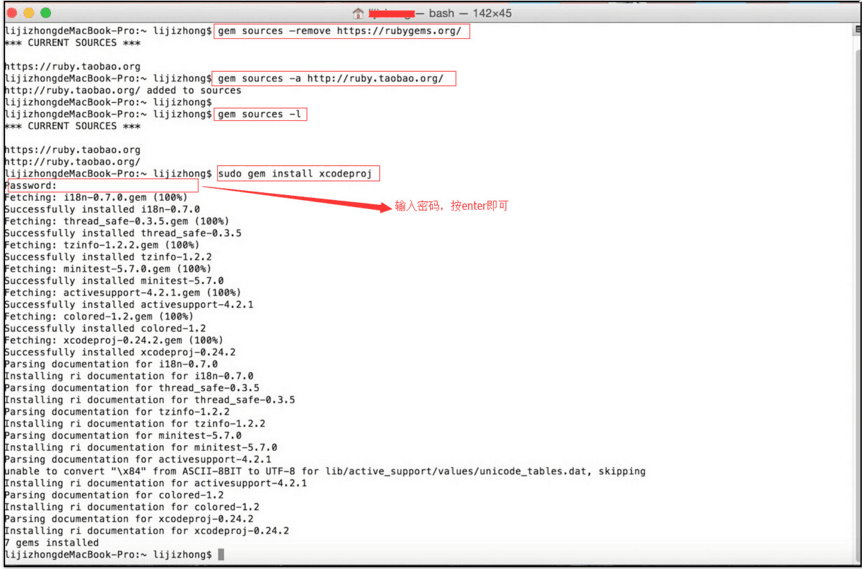
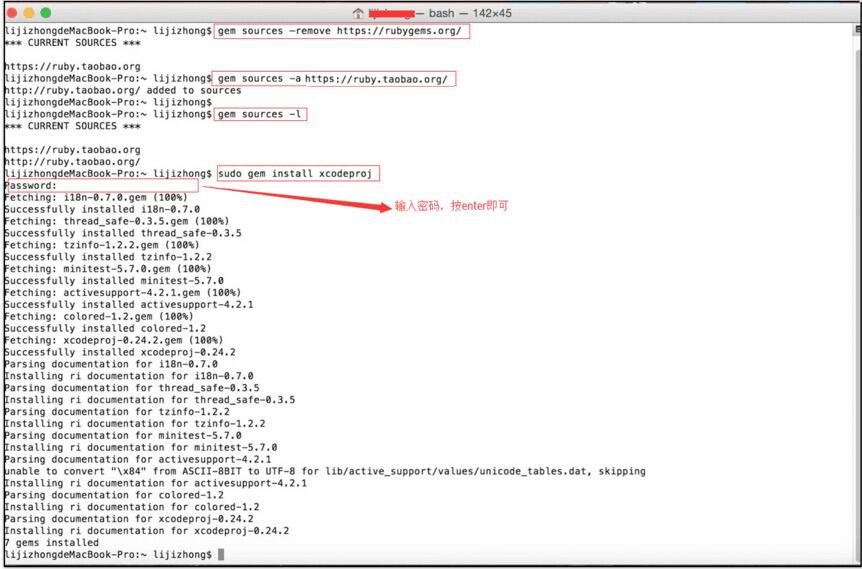
update iOS pkg

diff --git a/section2/packageToolios.md b/section2/packageToolios.md
@@ -13,17 +13,17 @@
 
 ## 1. 配置运行环境  
 
-通过命令行方式，配置mac机器的打包环境，步骤如下：
-- 移除旧资源
-gem sources –-remove https://rubygems.org/
+<p>通过命令行方式，配置mac机器的打包环境，步骤如下：</p>
+- <p>移除旧资源</p>
+<code>gem sources –-remove https://rubygems.org/</code>
 
-- 等有反应之后再敲入以下命令(注意：由于淘宝镜向，近期基于http的服务停止，若安装提示“Unable to download data from http://ruby.taobao.org/ - bad response”，则需要切换到https才行.)
-gem sources --add https://ruby.taobao.org/
+- 等有反应之后再敲入以下命令(注意：由于淘宝镜向，近期基于http的服务停止，若安装提示“Unable to download data from http://ruby.taobao.org/ - bad response”，则需要切换到https才行.)<br>
+<code>gem sources -a https://ruby.taobao.org/</code>
 
 - <p>用以下命令查看</p>
  <code>gem sources -l</code>
 - <p>出现下面文字才表明上面的命令是成功的</p>
-<code>\*\*\* CURRENT SOURCES \*\*\* <br></code>
+<code>\*\*\* CURRENT SOURCES \*\*\* <br>
 https://ruby.taobao.org/ </code> （注意，这里必须是 https://ruby.taobao.org才对！！！！）
 - <p>安装xcodeproj库</p>
 <code>sudo gem install xcodeproj</code>
@@ -35,9 +35,9 @@ https://ruby.taobao.org/ </code> （注意，这里必须是 https://ruby.taobao
 
 
 ## 2. 命令行打包
-
-### 使用方法：
+<br>
 视频链接：<http://pan.baidu.com/s/1qWCbkNa>
+### 使用方法：
 
 - 将xgsdk提供的zip包解压，得到xg_package资源目录。将其拷贝到本机的xcode工程目录。
 
